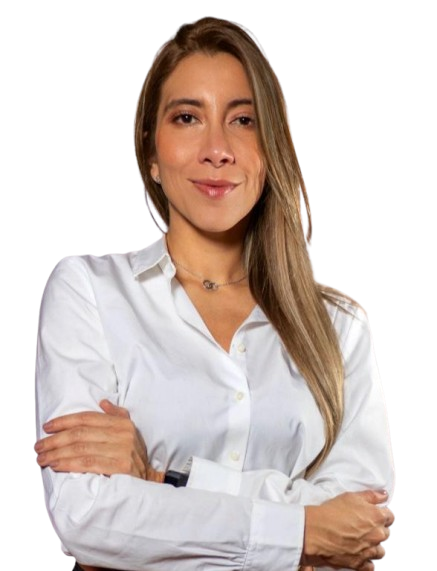
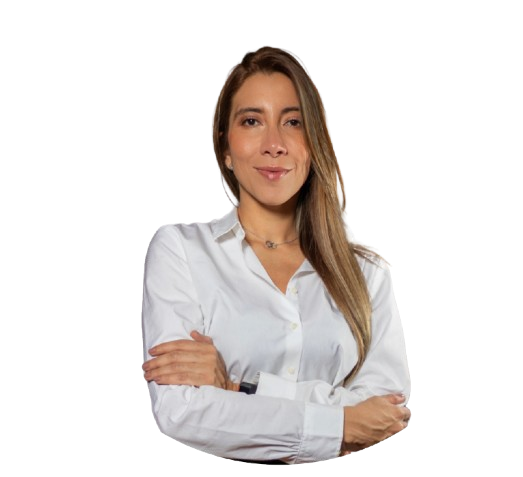
Cambios de home

diff --git a/assets/css/style.css b/assets/css/style.css
@@ -1820,38 +1820,38 @@ ol.b {list-style-type: disc;}
 .hero-copy .eyebrow {
   display: block;
   color: #ffffff;
-  font-size: 15px;
-  font-weight: 500;
-  margin-bottom: 6px;
+  font-size: 17px;
+  font-weight: 700;
+  margin-bottom: 10px;
 }
 
 .hero-copy h1 {
   color: #ffffff;
-  font-size: 42px;
+  font-size: 62px;
   line-height: 1.08;
-  margin: 0 0 9px;
+  margin: 0 0 12px;
 }
 
 .hero-copy h2 {
   color: #ffffff;
-  font-size: 17px;
-  font-weight: 600;
-  margin: 0 0 26px;
+  font-size: 25px;
+  font-weight: 700;
+  margin: 0 0 24px;
 }
 
 .hero-copy h3 {
   color: #ffffff;
-  font-size: 17px;
-  line-height: 1.55;
-  margin: 0 0 14px;
+  font-size: 23px;
+  line-height: 1.42;
+  margin: 0 0 18px;
 }
 
 .hero-copy p {
   color: #ffffff;
-  max-width: 430px;
-  font-size: 13px;
-  line-height: 1.85;
-  margin-bottom: 30px;
+  max-width: 560px;
+  font-size: 17px;
+  line-height: 1.7;
+  margin-bottom: 34px;
 }
 
 .hero-actions {
@@ -1923,7 +1923,13 @@ ol.b {list-style-type: disc;}
 }
 
 .btn-secondary-home {
+  background: transparent;
   border: 1px solid rgba(255, 255, 255, 0.88);
+  color: #ffffff;
+}
+
+.btn-secondary-home:focus,
+.btn-secondary-home:visited {
   color: #ffffff;
 }
 
@@ -1947,16 +1953,20 @@ ol.b {list-style-type: disc;}
   aspect-ratio: 1;
   border-radius: 50%;
   overflow: hidden;
+  padding: 22px;
+  background: #36bfd9;
   display: flex;
   align-items: center;
   justify-content: center;
 }
 
 .hero-photo img {
+  width: auto;
+  height: 117%;
   max-width: none;
-  width: 168%;
-  height: 168%;
   object-fit: contain;
+  object-position: center bottom;
+  transform: translateY(4%);
 }
 
 .about-preview {
@@ -2034,7 +2044,7 @@ ol.b {list-style-type: disc;}
 }
 
 .problem-band {
-  background: #ff6658;
+  background: #f2d525;
   color: #ffffff;
   text-align: center;
   padding: 60px 0 56px;
@@ -2416,12 +2426,20 @@ ol.b {list-style-type: disc;}
   }
 
   .hero-copy h1 {
-    font-size: 34px;
+    font-size: 42px;
   }
 
-  .hero-copy h2,
+  .hero-copy h2 {
+    font-size: 21px;
+  }
+
   .hero-copy h3 {
+    font-size: 18px;
+  }
+
+  .hero-copy p {
     font-size: 15px;
+    line-height: 1.65;
   }
 
   .btn-primary-home,

diff --git a/index.html b/index.html
@@ -29,7 +29,7 @@
 				<div class="home-container">
 					<header class="home-header">
 						<a class="home-logo" href="index.html" aria-label="LegalPets inicio">
-							<img src="assets/images/logo.jpeg" alt="LegalPets">
+							<img src="assets/images/logo.png" alt="LegalPets">
 						</a>
 						<nav class="home-nav" aria-label="Navegacion principal">
 							<a class="active" href="#inicio"><i class="fa fa-home"></i><span>Inicio</span></a>
@@ -52,7 +52,7 @@
 							</div>
 						</div>
 						<div class="hero-photo" aria-label="Retrato de Silvia Rodriguez">
-							<img src="assets/images/banner/1.png" alt="Silvia Rodriguez">
+							<img src="assets/images/banner/2.png" alt="Silvia Rodriguez">
 						</div>
 					</div>
 				</div>
@@ -145,7 +145,7 @@
 			<footer class="home-footer" id="contacto">
 				<div class="home-container">
 					<a class="footer-logo" href="index.html">
-						<img src="assets/images/logo.jpeg" alt="LegalPets">
+						<img src="assets/images/logo.png" alt="LegalPets">
 					</a>
 					<p>Protejo tu vinculo con tu perro cuando el entorno lo amenaza.<br>Escribeme y te digo en que puedo ayudarte.</p>
 					<div class="contact-grid">

diff --git a/contact.html b/contact.html
@@ -37,7 +37,7 @@
 				<div class="row">
 					<div class="col-md-2">
 						<div class="logo-area">
-							<a href="index.html"><img src="assets/images/logo.jpeg" alt="cvita"></a>
+							<a href="index.html"><img src="assets/images/logo.png" alt="cvita"></a>
 						</div>
 					</div>
 					<div class="col-md-10">

diff --git a/portfolio-detail.html b/portfolio-detail.html
@@ -37,7 +37,7 @@
 				<div class="row">
 					<div class="col-md-2">
 						<div class="logo-area">
-							<a href="index.html"><img src="assets/images/logo.jpeg" alt="cvita"></a>
+							<a href="index.html"><img src="assets/images/logo.png" alt="cvita"></a>
 						</div>
 					</div>
 					<div class="col-md-10">

diff --git a/portfolio.html b/portfolio.html
@@ -37,7 +37,7 @@
 				<div class="row">
 					<div class="col-md-2">
 						<div class="logo-area">
-							<a href="index.html"><img src="assets/images/logo.jpeg" alt="cvita"></a>
+							<a href="index.html"><img src="assets/images/logo.png" alt="cvita"></a>
 						</div>
 					</div>
 					<div class="col-md-10">

diff --git a/resume.html b/resume.html
@@ -37,7 +37,7 @@
 				<div class="row">
 					<div class="col-md-2">
 						<div class="logo-area">
-							<a href="index.html"><img src="assets/images/logo.jpeg" alt="Okam"></a>
+							<a href="index.html"><img src="assets/images/logo.png" alt="Okam"></a>
 						</div>
 					</div>
 					<div class="col-md-10">

diff --git a/service.html b/service.html
@@ -37,7 +37,7 @@
 				<div class="row">
 					<div class="col-md-2">
 						<div class="logo-area">
-							<a href="index.html"><img src="assets/images/logo.jpeg" alt="Okam"></a>
+							<a href="index.html"><img src="assets/images/logo.png" alt="Okam"></a>
 						</div>
 					</div>
 					<div class="col-md-10">